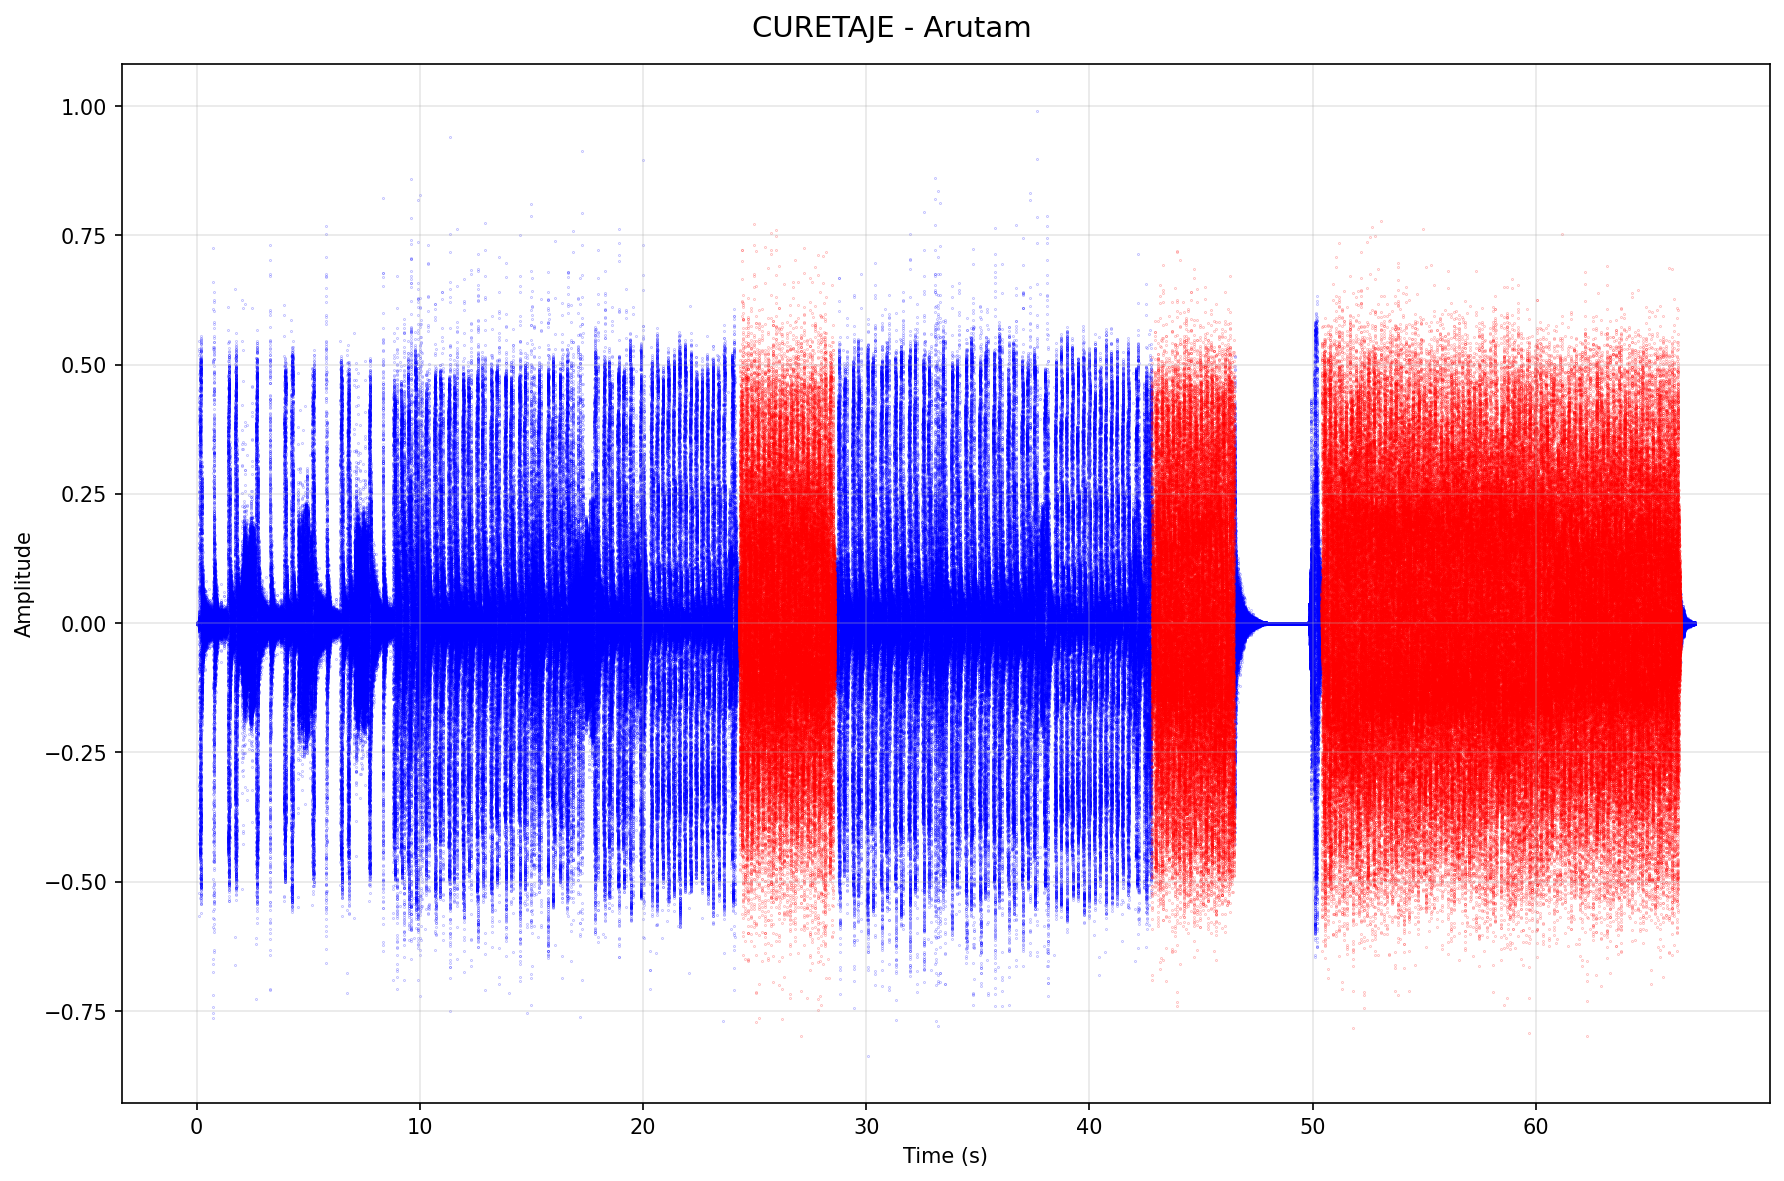
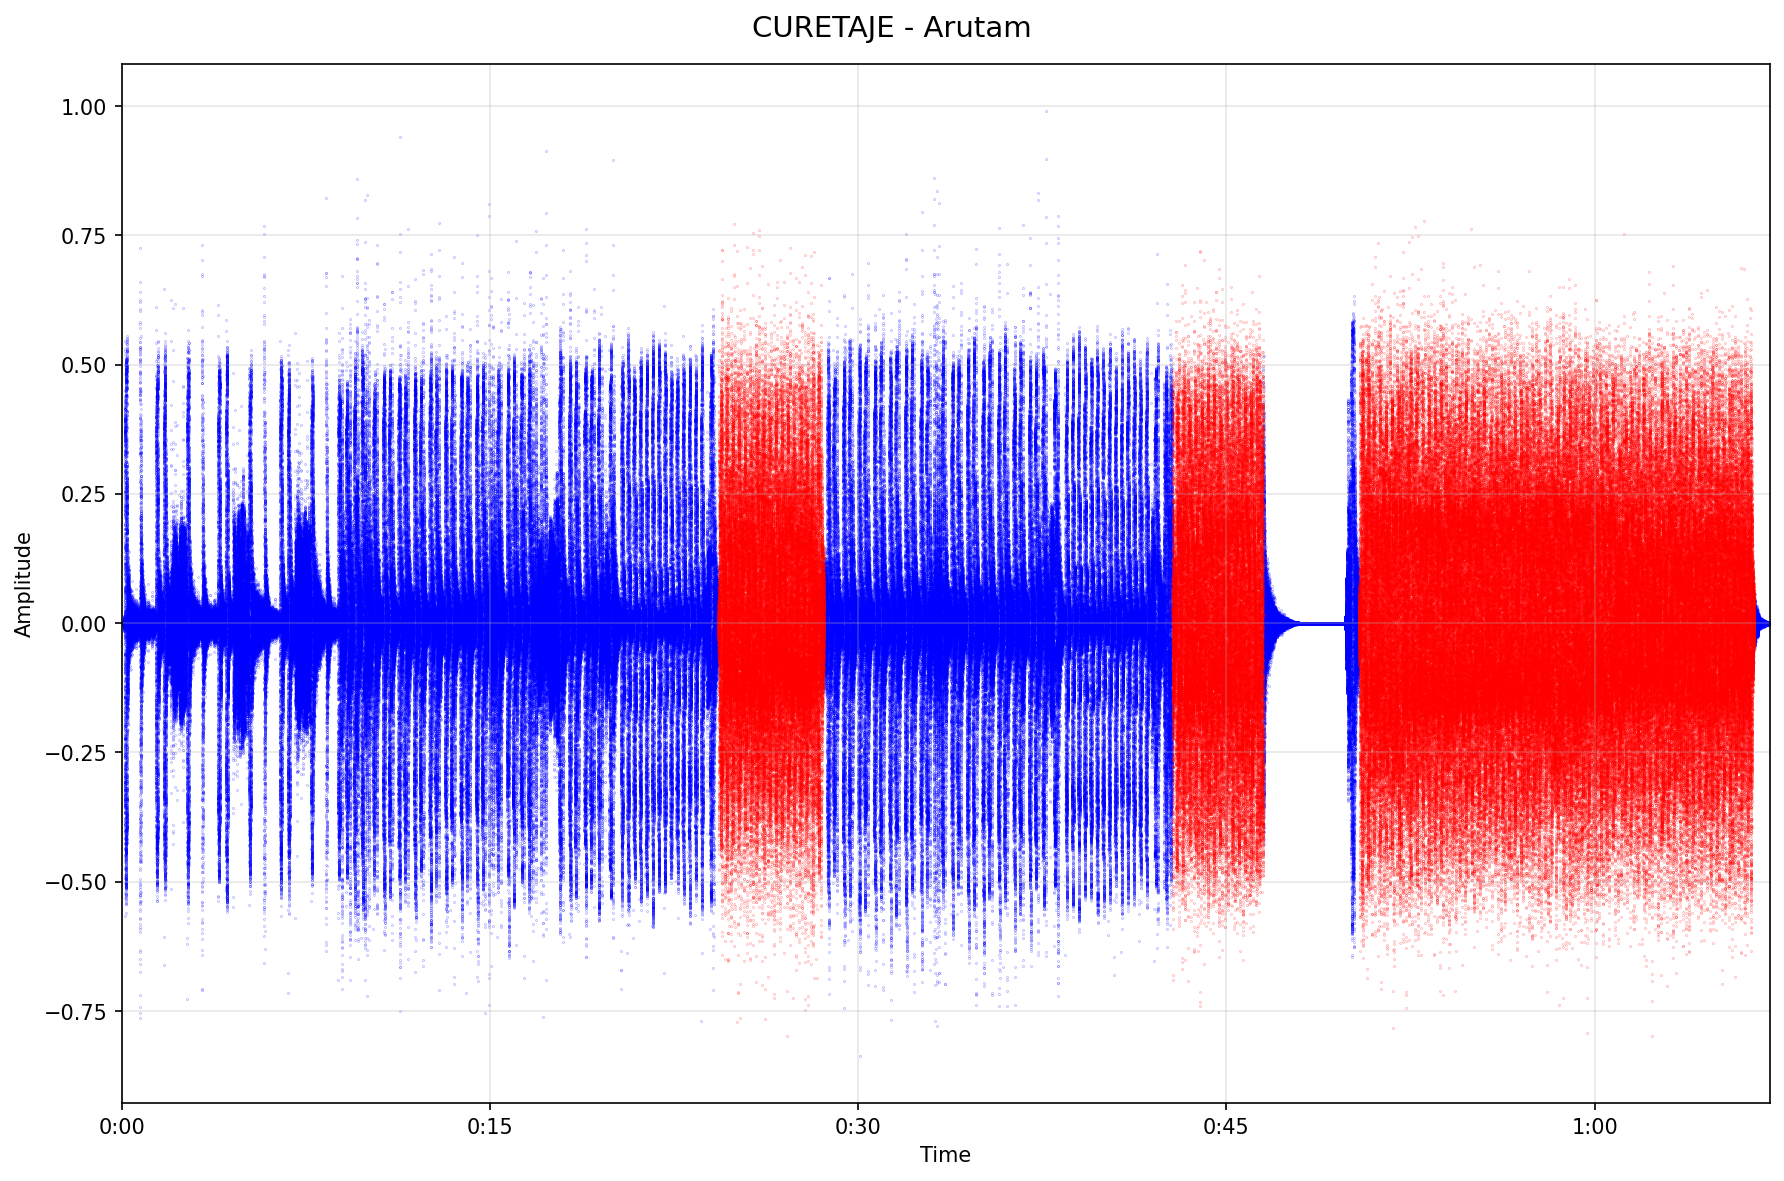
add other experiments to readme

diff --git a/plotting.py b/plotting.py
@@ -105,9 +105,11 @@ def plot_waveform(time: np.ndarray, data:np.ndarray, ranges_to_highlight:list[tu
     fig, ax1 = plt.subplots(1, 1, figsize=(12, 8))
     ax1.scatter(non_highlighted_time_elements, non_highlighted_data_elements, color='blue', marker='o', label='Other', s=0.01)
     ax1.scatter(highlighted_time_elements, highlighted_data_elements, color='red', marker='o', label='Blast-beats', s=0.01)
-    ax1.set_xticks(np.arange(0, time[-1] + 1, 10))
+    ax1.set_xticks(np.arange(0, time[-1] + 1, 15))
+    ax1.xaxis.set_major_formatter(plt.FuncFormatter(lambda x, _: f"{int(x // 60)}:{int(x % 60):02d}"))
+    ax1.set_xlim(time[0], time[-1])
     ax1.grid(True, alpha=0.3)
-    ax1.set_xlabel("Time (s)")
+    ax1.set_xlabel("Time")
     ax1.set_ylabel("Amplitude")
 
     fig.suptitle(title, fontsize=14)

diff --git a/main.py b/main.py
@@ -119,8 +119,9 @@ if __name__ == "__main__":
     base_dir = "/home/linomp/Downloads"
     default_output_dir = f"./output"
 
-    # file = "CURETAJE - Arutam.mp3"
-    file = "Dying Fetus - Subjected To A Beating.wav"
+    file = "CURETAJE - Arutam.mp3"
+    # file = "Dying Fetus - Subjected To A Beating.wav"
+    # file = "SUFFOCATION - Perpetual Deception.mp3"
 
     file_path = Path(base_dir) / file
     time, audio_data, sample_rate = extract_drums(file_path)

diff --git a/README.md b/README.md
@@ -27,6 +27,8 @@ Here we highlighted the first blast beat of this song, between 29s - 31s:
 Here is what we are currently detecting with the MVP (blast beats in red):
 
 ![Dying_Fetus___Subjected_To_A_Beating.png](output/Dying_Fetus___Subjected_To_A_Beating.png)
+![SUFFOCATION___Perpetual_Deception.png](output/SUFFOCATION___Perpetual_Deception.png)
+![CURETAJE___Arutam.png](output/CURETAJE___Arutam.png)
 
 ## MVP Roadmap
 
